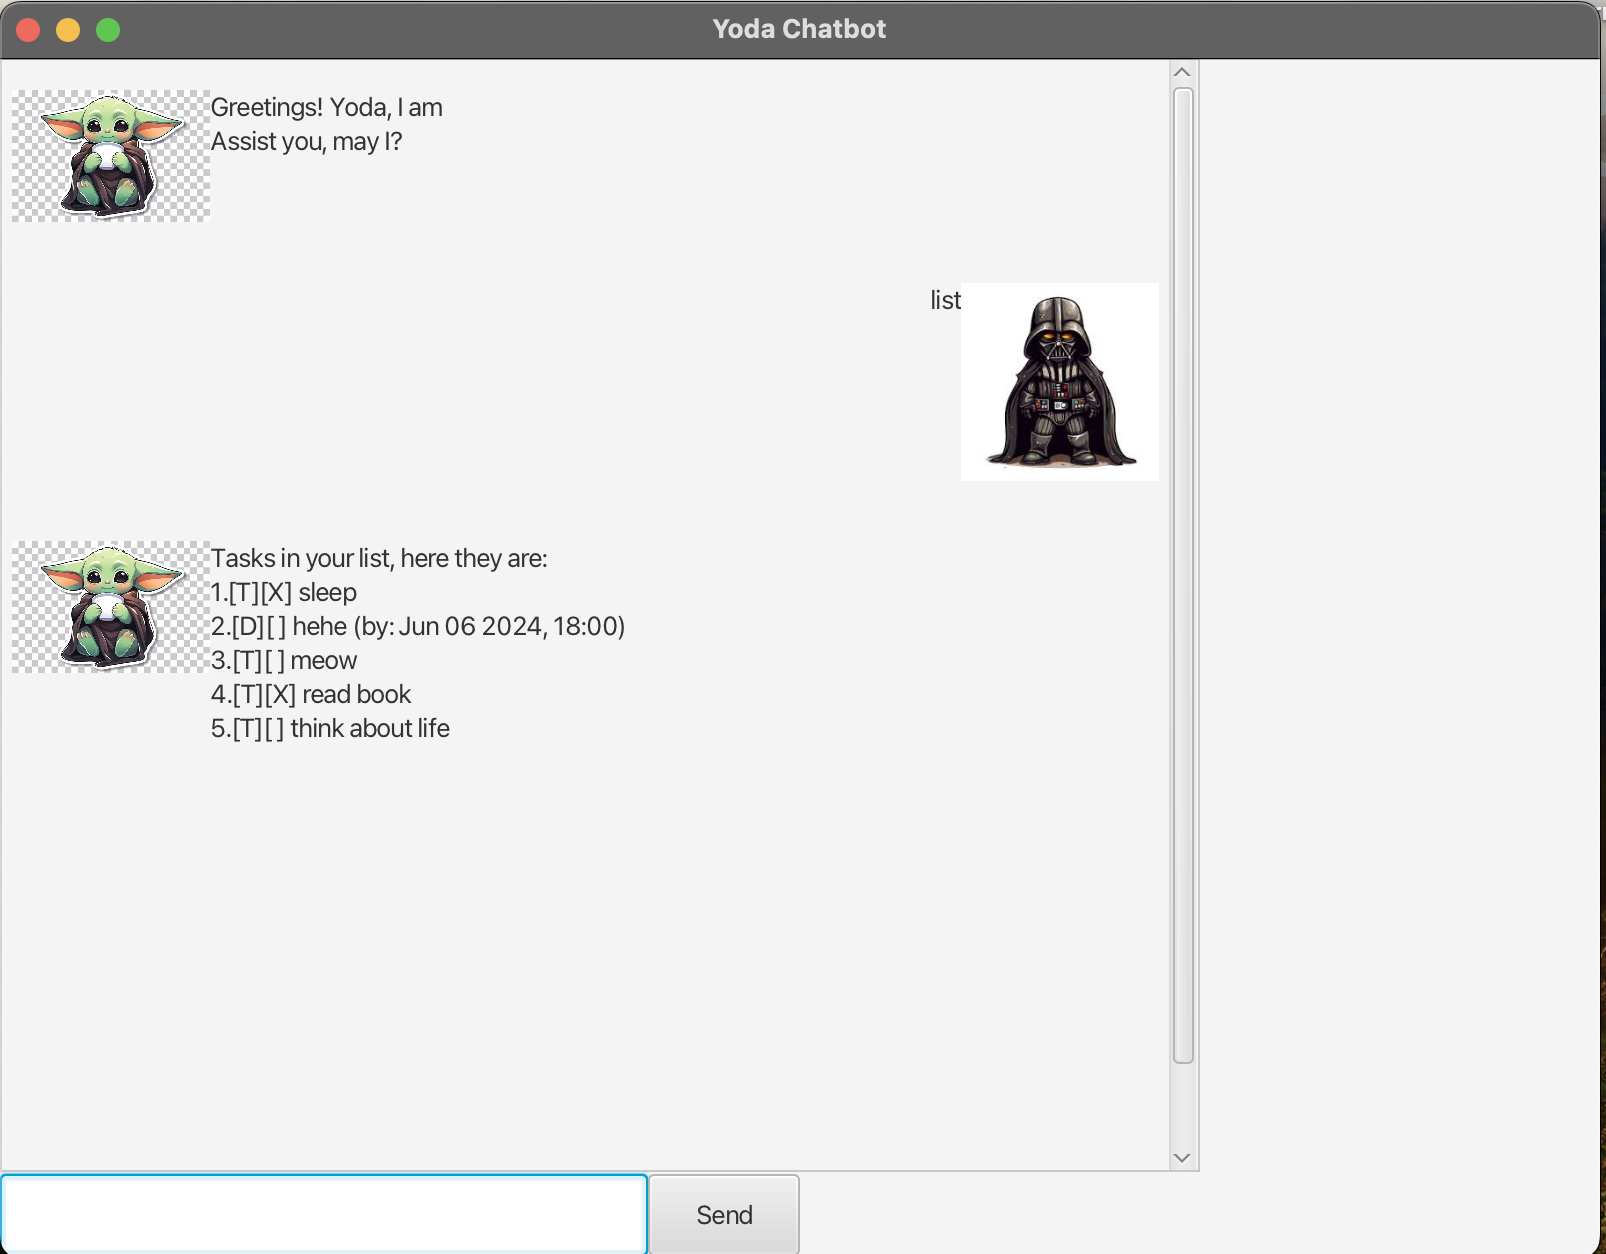
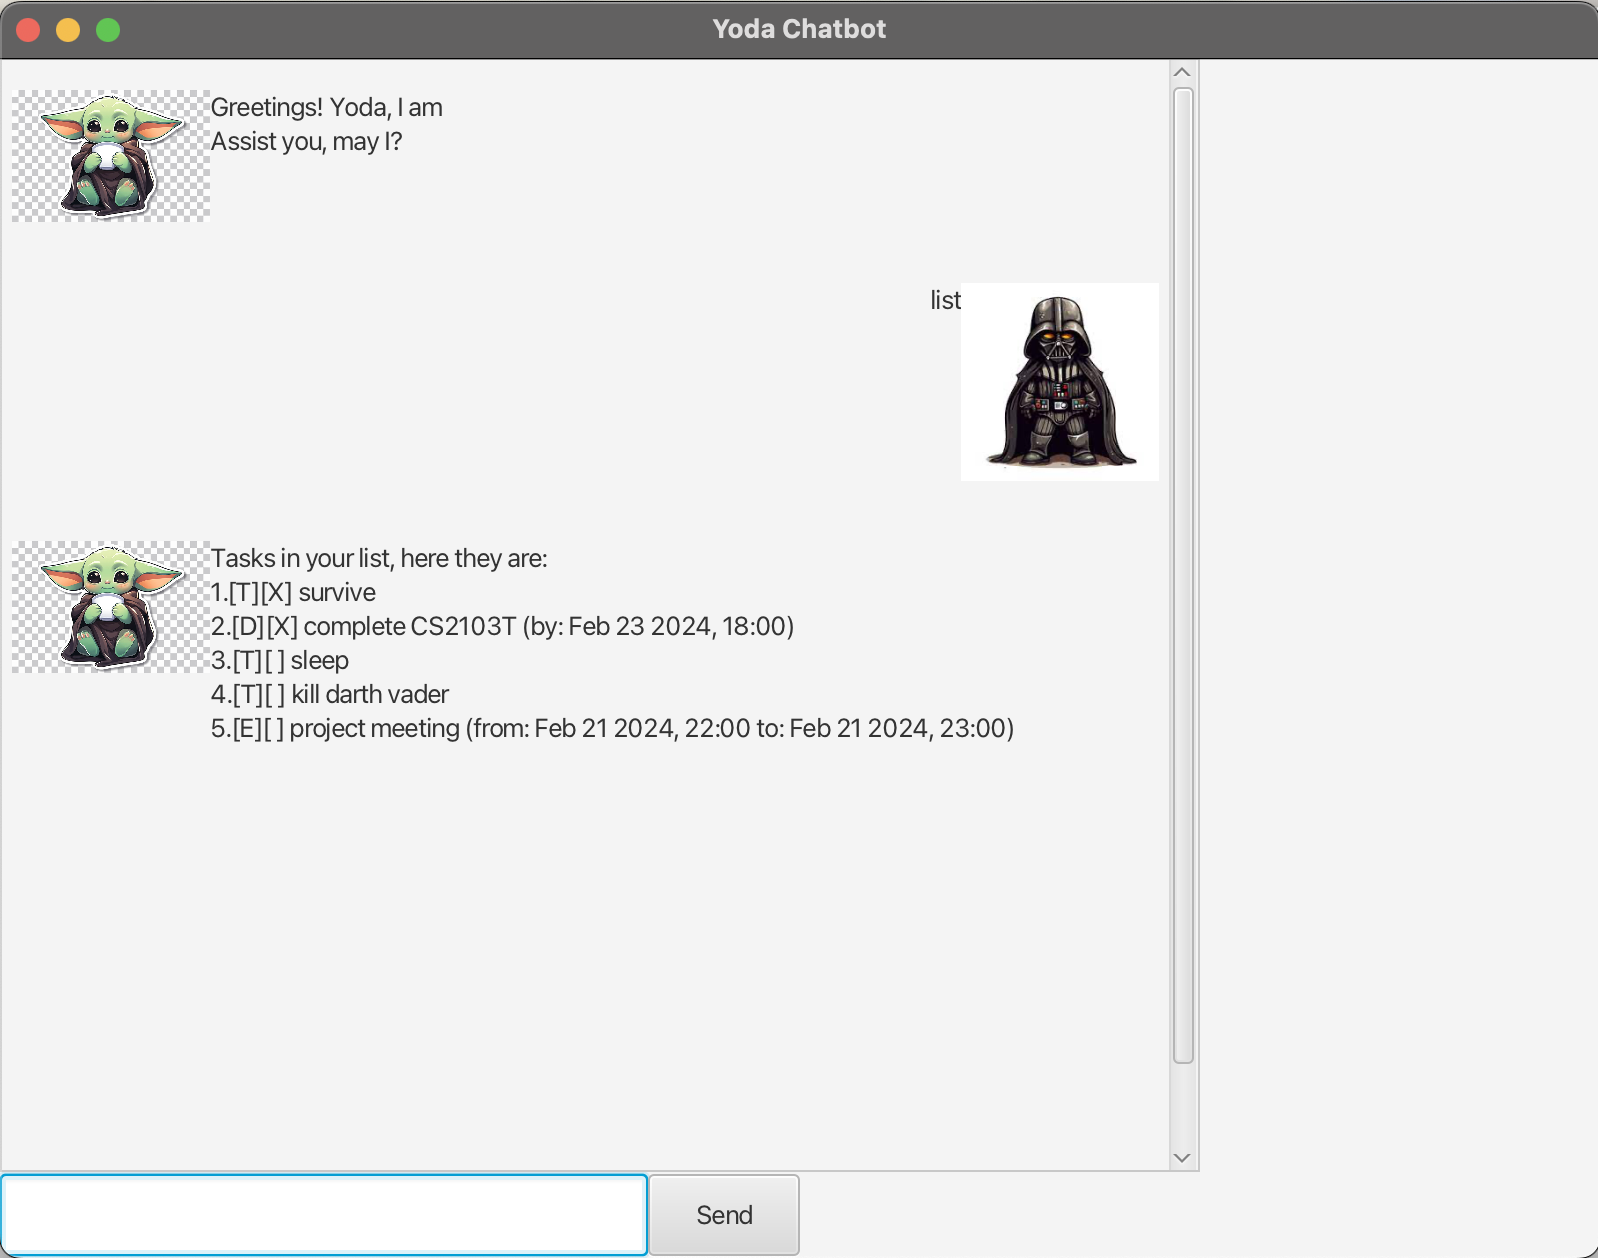
Re-add Ui.png file, debugged method for Storage

diff --git a/src/main/java/yoda/storage/Storage.java b/src/main/java/yoda/storage/Storage.java
@@ -152,8 +152,12 @@ public class Storage {
             if (parts.length < 4) return null;
             return createDeadlineTask(isDone, description, parts[3]);
         case "E":
-            if (parts.length < 5) return null;
-            return createEventTask(isDone, description, parts[3], parts[4]);
+            if (parts.length < 4) return null;
+            String[] eventTimes = parts[3].split(" to ");
+            if (eventTimes.length < 2) return null; // Basic validation for time range
+            String startTime = eventTimes[0];
+            String endTime = eventTimes[1];
+            return createEventTask(isDone, description, startTime, endTime);
         default:
             return null;
         }

diff --git a/src/main/java/yoda/parser/Parser.java b/src/main/java/yoda/parser/Parser.java
@@ -56,7 +56,7 @@ public class Parser {
                 TaskList taskList = YODA_UI.getTaskList();
                 return YODA_UI.saveTasks(taskList);
             case DELETE:
-                performTaskOperation(parts, YODA_UI::deleteTask);
+                return performTaskOperation(parts, YODA_UI::deleteTask);
             case FIND:
                 if (parts.length > 1) {
                     return YODA_UI.findTasks(parts[1]);
